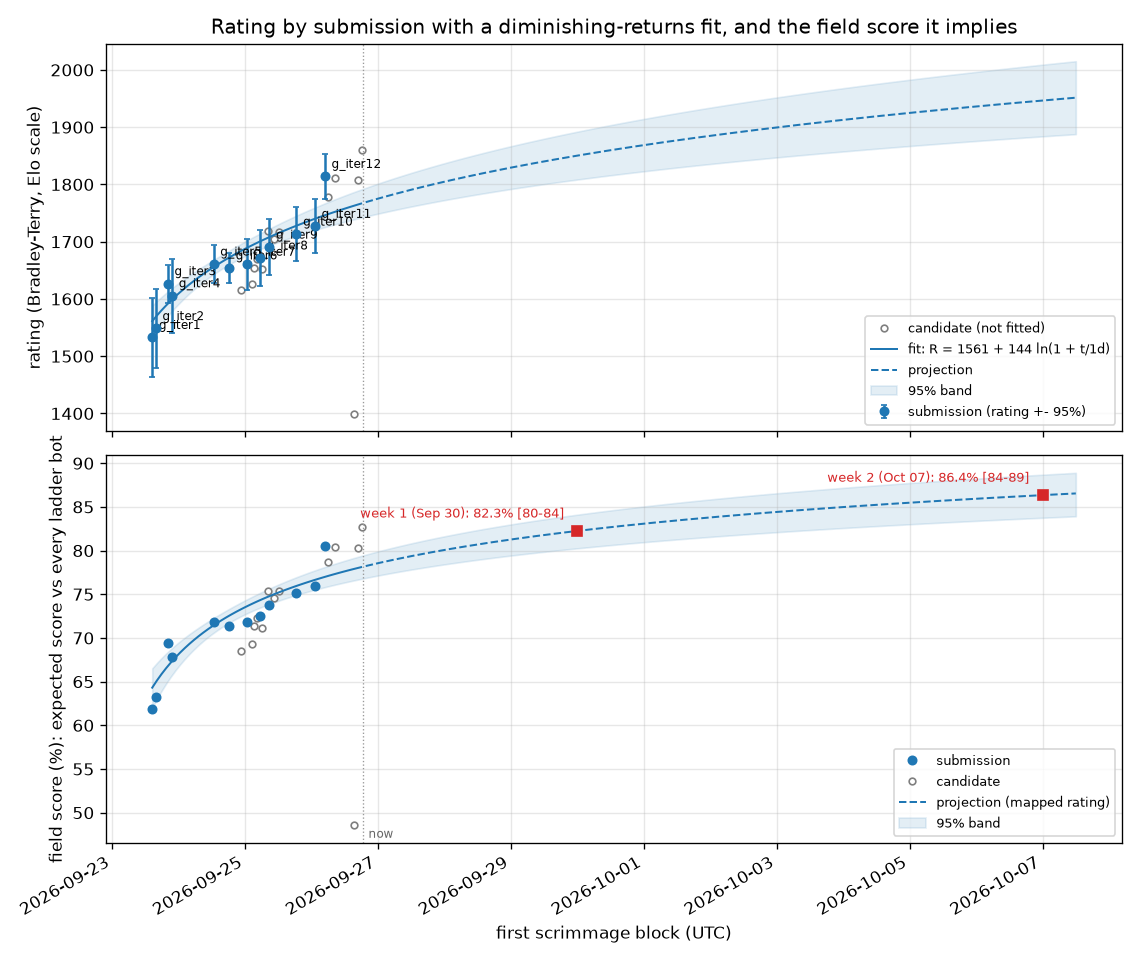
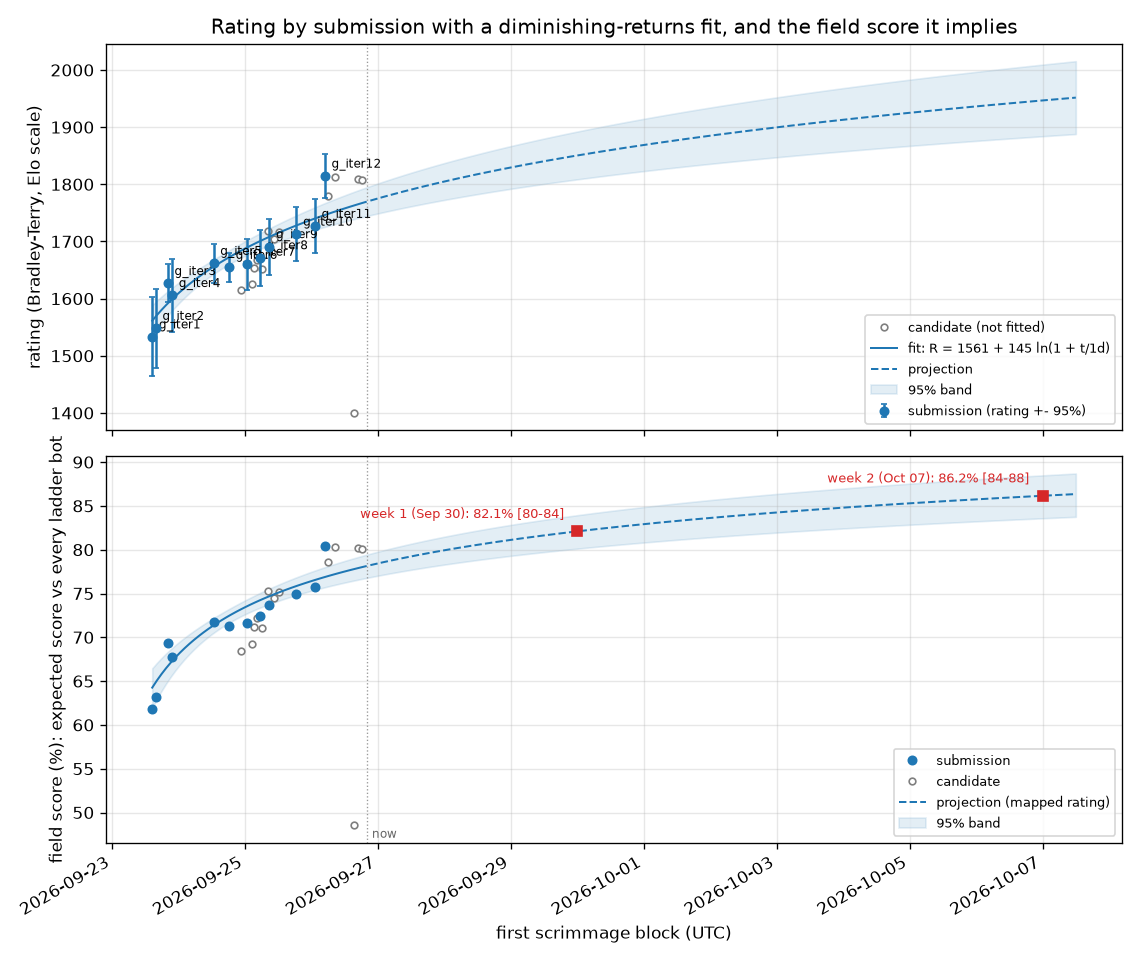
sub81 block 1: 9-39 vs a stronger band; cand81s8 1808 +- 60 on 144 (null); the shield absent in 14 of 15 raid losses
Claude-Session: https://claude.ai/code/session_015tNyF5ucwWW1mudpEQTT25

diff --git a/progress/ELO.md b/progress/ELO.md
@@ -1,76 +1,76 @@
 # Ladder
 
-6328 scrimmages (ours only), 5804 distinct (a repeated pairing with the same seed replays the same game and counts once), rated by a batch Bradley-Terry fit on the Elo scale (`tools/elolib.py`); each of our builds is its own player. 65 of 65 ladder bots met.
+6376 scrimmages (ours only), 5852 distinct (a repeated pairing with the same seed replays the same game and counts once), rated by a batch Bradley-Terry fit on the Elo scale (`tools/elolib.py`); each of our builds is its own player. 65 of 65 ladder bots met.
 
 Our builds (rating +- 95%; field score = expected score against every ladder bot, one game each):
 
 | build | rating | rank | games | record | field score |
 |---|---|---|---|---|---|
-| cand81s8 | 1861 +- 72 | 12 of 91 | 96 | 53-43 | 82.7% |
-| g_iter12 | 1814 +- 39 | 14 of 91 | 336 | 159-177 | 80.5% |
-| cand69 | 1811 +- 73 | 15 of 91 | 96 | 46-50 | 80.4% |
-| cand81 | 1809 +- 90 | 16 of 91 | 95 | 67-28 | 80.3% |
-| cand65 | 1778 +- 73 | 17 of 91 | 96 | 42-54 | 78.7% |
-| g_iter11 | 1727 +- 47 | 18 of 91 | 240 | 107-133 | 75.9% |
-| cand43b | 1719 +- 79 | 19 of 91 | 96 | 64-32 | 75.4% |
-| cand49b | 1717 +- 75 | 20 of 91 | 96 | 42-54 | 75.3% |
-| g_iter10 | 1713 +- 48 | 21 of 91 | 240 | 103-137 | 75.1% |
-| cand47d | 1704 +- 54 | 24 of 91 | 192 | 73-119 | 74.6% |
-| g_iter9 | 1691 +- 49 | 25 of 91 | 240 | 78-162 | 73.7% |
-| g_iter8 | 1672 +- 49 | 27 of 91 | 240 | 108-132 | 72.5% |
-| cand41b | 1669 +- 76 | 28 of 91 | 96 | 51-45 | 72.3% |
-| g_iter5 | 1661 +- 34 | 29 of 91 | 618 | 329-289 | 71.8% |
-| g_iter7 | 1661 +- 45 | 30 of 91 | 288 | 135-153 | 71.8% |
-| g_iter6 | 1654 +- 26 | 31 of 91 | 886 | 450-436 | 71.4% |
-| cand40c | 1654 +- 77 | 32 of 91 | 96 | 57-39 | 71.3% |
-| cand42c | 1652 +- 76 | 33 of 91 | 96 | 49-47 | 71.2% |
+| g_iter12 | 1814 +- 39 | 13 of 91 | 336 | 159-177 | 80.4% |
+| cand69 | 1812 +- 73 | 14 of 91 | 96 | 46-50 | 80.3% |
+| cand81 | 1810 +- 90 | 15 of 91 | 95 | 67-28 | 80.2% |
+| cand81s8 | 1808 +- 60 | 16 of 91 | 144 | 62-82 | 80.1% |
+| cand65 | 1779 +- 73 | 17 of 91 | 96 | 42-54 | 78.6% |
+| g_iter11 | 1727 +- 48 | 18 of 91 | 240 | 107-133 | 75.8% |
+| cand43b | 1718 +- 79 | 19 of 91 | 96 | 64-32 | 75.3% |
+| cand49b | 1717 +- 75 | 20 of 91 | 96 | 42-54 | 75.2% |
+| g_iter10 | 1713 +- 48 | 21 of 91 | 240 | 103-137 | 75.0% |
+| cand47d | 1704 +- 54 | 24 of 91 | 192 | 73-119 | 74.5% |
+| g_iter9 | 1691 +- 49 | 25 of 91 | 240 | 78-162 | 73.6% |
+| g_iter8 | 1672 +- 49 | 27 of 91 | 240 | 108-132 | 72.4% |
+| cand41b | 1668 +- 76 | 28 of 91 | 96 | 51-45 | 72.2% |
+| g_iter5 | 1662 +- 34 | 29 of 91 | 618 | 329-289 | 71.8% |
+| g_iter7 | 1660 +- 45 | 30 of 91 | 288 | 135-153 | 71.7% |
+| g_iter6 | 1655 +- 26 | 31 of 91 | 886 | 450-436 | 71.3% |
+| cand40c | 1654 +- 77 | 32 of 91 | 96 | 57-39 | 71.2% |
+| cand42c | 1651 +- 76 | 33 of 91 | 96 | 49-47 | 71.0% |
 | iter24 | 1634 +- 130 | 34 of 91 | 46 | 11-35 | 69.9% |
-| g_iter3 | 1627 +- 33 | 35 of 91 | 796 | 167-629 | 69.4% |
-| cand37 | 1626 +- 76 | 36 of 91 | 96 | 46-50 | 69.3% |
-| cand31 | 1615 +- 75 | 37 of 91 | 96 | 52-44 | 68.6% |
-| g_iter4 | 1606 +- 65 | 38 of 91 | 217 | 43-174 | 67.9% |
-| g_iter2 | 1548 +- 69 | 39 of 91 | 192 | 44-148 | 63.2% |
-| g_iter1 | 1533 +- 69 | 40 of 91 | 170 | 95-75 | 61.9% |
-| arch_enclosure | 1400 +- 165 | 44 of 91 | 48 | 4-44 | 48.6% |
+| g_iter3 | 1627 +- 33 | 35 of 91 | 796 | 167-629 | 69.3% |
+| cand37 | 1625 +- 76 | 36 of 91 | 96 | 46-50 | 69.2% |
+| cand31 | 1615 +- 75 | 37 of 91 | 96 | 52-44 | 68.5% |
+| g_iter4 | 1606 +- 65 | 38 of 91 | 217 | 43-174 | 67.8% |
+| g_iter2 | 1548 +- 69 | 39 of 91 | 192 | 44-148 | 63.1% |
+| g_iter1 | 1533 +- 69 | 40 of 91 | 170 | 95-75 | 61.8% |
+| arch_enclosure | 1400 +- 165 | 44 of 91 | 48 | 4-44 | 48.5% |
 
 | rank | player | rating | +- 95% | games | W-L |
 |---|---|---|---|---|---|
 | 1 | awesomelemonade.citricsky | 2230 | 200 | 103 | 101-2 |
 | 2 | uvafan.v14_final_bot | 2220 | 200 | 98 | 96-2 |
 | 3 | AngusRitossa.newbot | 2161 | 174 | 95 | 92-3 |
-| 4 | ronniesong0809.finalbota | 2045 | 98 | 127 | 114-13 |
-| 5 | IvanGeffner.finalbota | 1987 | 86 | 137 | 119-18 |
-| 6 | battlecode20-team4.finalbota | 1983 | 65 | 238 | 207-31 |
-| 7 | StoneT2000.FinalChowBotStable | 1972 | 211 | 21 | 19-2 |
-| 8 | rzhan11.quals_bot | 1944 | 95 | 98 | 83-15 |
-| 9 | winkelmantanner.tannerplayer | 1942 | 45 | 368 | 293-75 |
-| 10 | mvpatel2000.qual | 1915 | 44 | 355 | 273-82 |
-| 11 | EmaPajic.Qualifications | 1884 | 39 | 418 | 311-107 |
-| 12 | **us:cand81s8** | 1861 | 72 | 96 | 53-43 |
-| 13 | poortho.stable_seeding_bot | 1825 | 31 | 587 | 405-182 |
-| 14 | **us:g_iter12** | 1814 | 39 | 336 | 159-177 |
-| 15 | **us:cand69** | 1811 | 73 | 96 | 46-50 |
-| 16 | **us:cand81** | 1809 | 90 | 95 | 67-28 |
-| 17 | **us:cand65** | 1778 | 73 | 96 | 42-54 |
-| 18 | **us:g_iter11** | 1727 | 47 | 240 | 107-133 |
-| 19 | **us:cand43b** | 1719 | 79 | 96 | 64-32 |
+| 4 | StoneT2000.FinalChowBotStable | 2064 | 210 | 27 | 25-2 |
+| 5 | ronniesong0809.finalbota | 2045 | 98 | 127 | 114-13 |
+| 6 | IvanGeffner.finalbota | 2004 | 86 | 143 | 125-18 |
+| 7 | battlecode20-team4.finalbota | 1993 | 65 | 244 | 213-31 |
+| 8 | winkelmantanner.tannerplayer | 1942 | 44 | 374 | 298-76 |
+| 9 | rzhan11.quals_bot | 1920 | 88 | 104 | 86-18 |
+| 10 | mvpatel2000.qual | 1918 | 43 | 361 | 279-82 |
+| 11 | EmaPajic.Qualifications | 1880 | 38 | 424 | 314-110 |
+| 12 | poortho.stable_seeding_bot | 1825 | 31 | 593 | 409-184 |
+| 13 | **us:g_iter12** | 1814 | 39 | 336 | 159-177 |
+| 14 | **us:cand69** | 1812 | 73 | 96 | 46-50 |
+| 15 | **us:cand81** | 1810 | 90 | 95 | 67-28 |
+| 16 | **us:cand81s8** | 1808 | 60 | 144 | 62-82 |
+| 17 | **us:cand65** | 1779 | 73 | 96 | 42-54 |
+| 18 | **us:g_iter11** | 1727 | 48 | 240 | 107-133 |
+| 19 | **us:cand43b** | 1718 | 79 | 96 | 64-32 |
 | 20 | **us:cand49b** | 1717 | 75 | 96 | 42-54 |
 | 21 | **us:g_iter10** | 1713 | 48 | 240 | 103-137 |
-| 22 | laurenschneider.pdx_team_one | 1711 | 28 | 602 | 326-276 |
+| 22 | laurenschneider.pdx_team_one | 1710 | 28 | 602 | 326-276 |
 | 23 | cormackikkert.whyPermutator | 1708 | 28 | 595 | 320-275 |
 | 24 | **us:cand47d** | 1704 | 54 | 192 | 73-119 |
 | 25 | **us:g_iter9** | 1691 | 49 | 240 | 78-162 |
-| 26 | benzyx.seeding | 1683 | 28 | 598 | 301-297 |
+| 26 | benzyx.seeding | 1682 | 28 | 598 | 301-297 |
 | 27 | **us:g_iter8** | 1672 | 49 | 240 | 108-132 |
-| 28 | **us:cand41b** | 1669 | 76 | 96 | 51-45 |
-| 29 | **us:g_iter5** | 1661 | 34 | 618 | 329-289 |
-| 30 | **us:g_iter7** | 1661 | 45 | 288 | 135-153 |
-| 31 | **us:g_iter6** | 1654 | 26 | 886 | 450-436 |
+| 28 | **us:cand41b** | 1668 | 76 | 96 | 51-45 |
+| 29 | **us:g_iter5** | 1662 | 34 | 618 | 329-289 |
+| 30 | **us:g_iter7** | 1660 | 45 | 288 | 135-153 |
+| 31 | **us:g_iter6** | 1655 | 26 | 886 | 450-436 |
 | 32 | **us:cand40c** | 1654 | 77 | 96 | 57-39 |
-| 33 | **us:cand42c** | 1652 | 76 | 96 | 49-47 |
+| 33 | **us:cand42c** | 1651 | 76 | 96 | 49-47 |
 | 34 | **us:iter24** | 1634 | 130 | 46 | 11-35 |
 | 35 | **us:g_iter3** | 1627 | 33 | 796 | 167-629 |
-| 36 | **us:cand37** | 1626 | 76 | 96 | 46-50 |
+| 36 | **us:cand37** | 1625 | 76 | 96 | 46-50 |
 | 37 | **us:cand31** | 1615 | 75 | 96 | 52-44 |
 | 38 | **us:g_iter4** | 1606 | 65 | 217 | 43-174 |
 | 39 | **us:g_iter2** | 1548 | 69 | 192 | 44-148 |
@@ -80,18 +80,18 @@ Our builds (rating +- 95%; field score = expected score against every ladder bot
 | 43 | eggag32.BrutalPigeonBot | 1435 | 58 | 200 | 43-157 |
 | 44 | **us:arch_enclosure** | 1400 | 165 | 48 | 4-44 |
 | 45 | cs454-w20-team3.playbot | 1397 | 112 | 56 | 11-45 |
-| 46 | ARognes.FinalSubmission | 1381 | 144 | 37 | 6-31 |
+| 46 | ARognes.FinalSubmission | 1382 | 144 | 37 | 6-31 |
 | 47 | TeamSerpentine.noodleBot | 1372 | 144 | 38 | 6-32 |
 | 48 | yaonam.Robot_1 | 1359 | 155 | 33 | 5-28 |
 | 49 | WilliamYue37.Player1 | 1354 | 140 | 46 | 6-40 |
-| 50 | opheez.landscapers | 1350 | 270 | 9 | 1-8 |
-| 51 | ovimura.welovesoup | 1350 | 270 | 9 | 1-8 |
-| 52 | rsandzimier.SandSibs_seeding | 1350 | 270 | 9 | 1-8 |
-| 53 | thissop.alpha | 1350 | 270 | 9 | 1-8 |
+| 50 | opheez.landscapers | 1351 | 270 | 9 | 1-8 |
+| 51 | ovimura.welovesoup | 1351 | 270 | 9 | 1-8 |
+| 52 | rsandzimier.SandSibs_seeding | 1351 | 270 | 9 | 1-8 |
+| 53 | thissop.alpha | 1351 | 270 | 9 | 1-8 |
 | 54 | Tim-gubski.AngryWaffleMaker | 1349 | 155 | 32 | 5-27 |
 | 55 | VinayaBhat.team10pdx | 1347 | 223 | 15 | 2-13 |
 | 56 | cosimogonnelli.Team3player | 1331 | 275 | 7 | 1-6 |
-| 57 | jenlz.bustedJulianbot | 1325 | 263 | 14 | 1-13 |
+| 57 | jenlz.bustedJulianbot | 1326 | 263 | 14 | 1-13 |
 | 58 | LucianCov.ourRobot | 1321 | 386 | 3 | 0-3 |
 | 59 | MrHoseongLee.Neptune_v3 | 1321 | 386 | 3 | 0-3 |
 | 60 | Phrancium.Frankplayer1 | 1321 | 386 | 3 | 0-3 |

diff --git a/progress/ONSET.md b/progress/ONSET.md
@@ -1,6 +1,6 @@
 # Which metric starts predicting the result first
 
-47 games, 29 wins. Noise floor about 0.29; a correlation inside that band is not evidence.
+47 games, 9 wins. Noise floor about 0.29; a correlation inside that band is not evidence.
 
 Every metric is oriented so **higher is better for us**, so a positive correlation always means
 "this being better goes with winning". `~avg` is the running mean over all rounds so far rather than
@@ -12,46 +12,46 @@ See `progress/METRICS.md` for how each quantity is computed.
 
 | onset | anti | metric | peak corr | r100 | r200 | r300 | r400 | r600 | r900 |
 |---|---|---|---|---|---|---|---|---|---|
-| r100 | - | mines (us-them) | +0.44 | +0.31 | +0.28 | +0.25 | +0.23 | +0.44 | +0.41 |
-| r100 | - | robots (us-them) | +0.67 | +0.31 | +0.37 | +0.49 | +0.49 | +0.63 | +0.66 |
-| r100 | - | spawned (us-them) | +0.56 | +0.32 | +0.36 | +0.32 | +0.31 | +0.41 | +0.52 |
-| r150 | - | landscapers (us-them) | +0.40 | +0.19 | +0.39 | +0.37 | +0.25 | +0.35 | +0.37 |
-| r150 | - | landscapers (us-them) ~avg | +0.44 | +0.19 | +0.34 | +0.39 | +0.32 | +0.36 | +0.42 |
-| r150 | - | robots (us-them) ~avg | +0.69 | +0.26 | +0.38 | +0.44 | +0.45 | +0.59 | +0.67 |
-| r150 | - | spawned (us-them) ~avg | +0.52 | +0.27 | +0.37 | +0.37 | +0.32 | +0.37 | +0.46 |
-| r150 | - | units (us-them) | +0.64 | +0.24 | +0.32 | +0.45 | +0.44 | +0.58 | +0.63 |
-| r150 | - | units (us-them) ~avg | +0.67 | +0.22 | +0.33 | +0.40 | +0.40 | +0.53 | +0.65 |
-| r250 | - | cov (us-them) | +0.57 | +0.10 | +0.21 | +0.42 | +0.49 | +0.56 | +0.51 |
-| r300 | - | died (us-them) [inverted] | +0.49 | -0.12 | +0.03 | +0.41 | +0.40 | +0.49 | +0.35 |
-| r300 | - | died (us-them) [inverted] ~avg | +0.45 | -0.12 | +0.07 | +0.34 | +0.40 | +0.44 | +0.42 |
-| r300 | - | miners (us-them) | +0.58 | +0.11 | +0.09 | +0.34 | +0.39 | +0.50 | +0.57 |
-| r300 | - | worth (us-them) | +0.59 | +0.21 | +0.27 | +0.42 | +0.38 | +0.57 | +0.58 |
-| r300 | - | worth (us-them) ~avg | +0.58 | +0.16 | +0.27 | +0.35 | +0.35 | +0.49 | +0.57 |
-| r350 | - | cov (us-them) ~avg | +0.57 | +0.06 | +0.12 | +0.30 | +0.36 | +0.50 | +0.55 |
-| r400 | - | drones (us-them) | +0.51 | +0.06 | +0.05 | +0.16 | +0.42 | +0.40 | +0.45 |
-| r400 | - | pickups (us-them) | +0.69 | -0.21 | -0.10 | +0.25 | +0.45 | +0.69 | +0.53 |
-| r450 | - | drones (us-them) ~avg | +0.49 | +0.06 | +0.14 | +0.12 | +0.23 | +0.44 | +0.48 |
-| r450 | - | miners (us-them) ~avg | +0.53 | +0.13 | +0.16 | +0.21 | +0.29 | +0.40 | +0.51 |
-| r450 | - | pickups (us-them) ~avg | +0.64 | -0.21 | -0.16 | +0.09 | +0.29 | +0.60 | +0.62 |
-| r550 | - | mines (us-them) ~avg | +0.42 | +0.26 | +0.29 | +0.28 | +0.23 | +0.34 | +0.40 |
-| r600 | - | moves (us-them) | +0.57 | -0.12 | +0.12 | +0.18 | +0.20 | +0.33 | +0.51 |
-| r700 | - | digs (us-them) | +0.31 | -0.07 | +0.08 | +0.24 | +0.23 | +0.28 | +0.30 |
-| r700 | - | moves (us-them) ~avg | +0.51 | -0.13 | +0.08 | +0.15 | +0.16 | +0.25 | +0.41 |
-| r700 | - | vaporators (us-them) | +0.44 | -0.01 | -0.19 | -0.11 | -0.05 | +0.23 | +0.41 |
-| r800 | - | digs (us-them) ~avg | +0.31 | -0.07 | +0.07 | +0.18 | +0.22 | +0.26 | +0.30 |
-| r1050 | - | netguns (us-them) | +0.35 | . | -0.21 | -0.17 | -0.14 | +0.14 | +0.12 |
-| r1050 | - | vaporators (us-them) ~avg | +0.38 | -0.01 | -0.16 | -0.15 | -0.13 | +0.02 | +0.24 |
-| - | - | aba (us-them) [inverted] | +0.28 | +0.28 | -0.18 | +0.02 | +0.17 | +0.12 | +0.06 |
-| - | - | aba (us-them) [inverted] ~avg | +0.30 | +0.30 | -0.09 | -0.07 | +0.07 | +0.13 | +0.09 |
-| - | - | dirtDeps (us-them) | +0.30 | -0.04 | +0.08 | +0.23 | +0.21 | +0.27 | +0.28 |
-| - | - | dirtDeps (us-them) ~avg | +0.30 | -0.04 | +0.08 | +0.17 | +0.20 | +0.25 | +0.29 |
+| r50 | - | mines (us-them) | +0.52 | +0.37 | +0.34 | +0.40 | +0.49 | +0.46 | +0.48 |
+| r50 | - | mines (us-them) ~avg | +0.51 | +0.39 | +0.38 | +0.41 | +0.51 | +0.49 | +0.49 |
+| r100 | - | drones (us-them) ~avg | +0.42 | +0.34 | +0.23 | +0.24 | +0.29 | +0.37 | +0.39 |
+| r100 | - | miners (us-them) | +0.37 | +0.37 | +0.29 | +0.23 | +0.29 | +0.24 | +0.33 |
+| r100 | - | miners (us-them) ~avg | +0.39 | +0.31 | +0.31 | +0.31 | +0.38 | +0.32 | +0.33 |
+| r100 | - | robots (us-them) | +0.53 | +0.41 | +0.33 | +0.25 | +0.45 | +0.45 | +0.53 |
+| r100 | - | robots (us-them) ~avg | +0.52 | +0.38 | +0.36 | +0.33 | +0.44 | +0.47 | +0.51 |
+| r100 | - | spawned (us-them) | +0.52 | +0.41 | +0.32 | +0.23 | +0.44 | +0.44 | +0.52 |
+| r100 | - | spawned (us-them) ~avg | +0.51 | +0.38 | +0.36 | +0.33 | +0.43 | +0.46 | +0.50 |
+| r100 | - | units (us-them) | +0.53 | +0.42 | +0.24 | +0.13 | +0.41 | +0.42 | +0.53 |
+| r100 | - | units (us-them) ~avg | +0.53 | +0.37 | +0.30 | +0.22 | +0.36 | +0.44 | +0.50 |
+| r100 | - | worth (us-them) | +0.52 | +0.34 | +0.34 | +0.37 | +0.49 | +0.47 | +0.51 |
+| r100 | - | worth (us-them) ~avg | +0.51 | +0.32 | +0.34 | +0.39 | +0.48 | +0.48 | +0.51 |
+| r150 | - | moves (us-them) | +0.51 | +0.18 | +0.31 | +0.19 | +0.33 | +0.42 | +0.51 |
+| r150 | - | moves (us-them) ~avg | +0.51 | +0.06 | +0.34 | +0.26 | +0.35 | +0.41 | +0.49 |
+| r400 | - | drones (us-them) | +0.42 | +0.34 | +0.12 | +0.25 | +0.34 | +0.34 | +0.42 |
+| r450 | - | cov (us-them) | +0.50 | -0.10 | +0.05 | +0.21 | +0.30 | +0.42 | +0.45 |
+| r450 | - | landscapers (us-them) | +0.57 | -0.01 | +0.04 | -0.07 | +0.30 | +0.42 | +0.54 |
+| r450 | - | soup (us-them) ~avg | +0.35 | -0.18 | -0.22 | -0.14 | +0.26 | +0.19 | +0.03 |
+| r450 | - | vaporators (us-them) | +0.49 | +0.07 | +0.12 | +0.26 | +0.28 | +0.47 | +0.46 |
+| r500 | - | vaporators (us-them) ~avg | +0.47 | +0.07 | +0.14 | +0.23 | +0.23 | +0.38 | +0.47 |
+| r550 | - | cov (us-them) ~avg | +0.46 | -0.19 | +0.03 | +0.14 | +0.21 | +0.35 | +0.44 |
+| r600 | - | landscapers (us-them) ~avg | +0.59 | -0.01 | +0.03 | -0.04 | +0.14 | +0.31 | +0.50 |
+| r600 | - | pickups (us-them) | +0.37 | -0.11 | +0.08 | +0.03 | +0.14 | +0.31 | +0.28 |
+| r950 | - | digs (us-them) | +0.50 | +0.04 | -0.00 | +0.03 | +0.04 | +0.11 | +0.28 |
+| r950 | - | pickups (us-them) ~avg | +0.34 | -0.11 | +0.07 | +0.06 | +0.08 | +0.24 | +0.30 |
+| r1050 | - | dirtDeps (us-them) | +0.43 | -0.00 | +0.01 | +0.01 | +0.01 | +0.05 | +0.21 |
+| r1150 | - | digs (us-them) ~avg | +0.33 | +0.04 | -0.03 | +0.01 | +0.03 | +0.05 | +0.16 |
+| - | r900 | aba (us-them) [inverted] | -0.41 | -0.03 | -0.00 | -0.02 | +0.02 | -0.17 | -0.31 |
+| - | r1050 | aba (us-them) [inverted] ~avg | -0.34 | -0.06 | -0.03 | -0.05 | -0.01 | -0.10 | -0.25 |
+| - | - | died (us-them) [inverted] | +0.23 | +0.09 | +0.09 | +0.15 | +0.23 | +0.21 | +0.18 |
+| - | - | died (us-them) [inverted] ~avg | +0.25 | +0.09 | +0.10 | +0.12 | +0.18 | +0.21 | +0.25 |
+| - | - | dirtDeps (us-them) ~avg | +0.25 | -0.00 | -0.02 | -0.01 | +0.01 | +0.01 | +0.09 |
 | - | - | drowned (us-them) [inverted] | . | . | . | . | . | . | . |
 | - | - | drowned (us-them) [inverted] ~avg | . | . | . | . | . | . | . |
-| - | - | hqBuried (us-them) [inverted] | +0.29 | +0.16 | +0.12 | +0.26 | +0.14 | . | . |
-| - | - | hqBuried (us-them) [inverted] ~avg | +0.29 | +0.16 | +0.02 | +0.25 | +0.17 | +0.18 | +0.19 |
-| - | - | netguns (us-them) ~avg | -0.23 | . | -0.18 | -0.21 | -0.21 | -0.10 | +0.01 |
-| - | - | soup (us-them) | -0.34 | -0.34 | -0.22 | -0.08 | -0.07 | -0.07 | -0.04 |
-| - | r200 | soup (us-them) ~avg | -0.41 | -0.30 | -0.41 | -0.28 | -0.16 | -0.13 | -0.08 |
+| - | - | hqBuried (us-them) [inverted] | +0.33 | +0.27 | -0.11 | +0.33 | -0.06 | -0.07 | -0.07 |
+| - | - | hqBuried (us-them) [inverted] ~avg | +0.27 | +0.27 | -0.06 | +0.23 | -0.05 | -0.06 | -0.07 |
+| - | - | netguns (us-them) | +0.28 | . | . | . | +0.10 | +0.25 | +0.25 |
+| - | - | netguns (us-them) ~avg | +0.29 | . | . | . | +0.10 | +0.25 | +0.28 |
+| - | - | soup (us-them) | +0.42 | -0.19 | -0.03 | +0.21 | +0.42 | -0.05 | -0.16 |
 
 **Reading it.** Earliest onset is the first place to look: temporal precedence is the one causal hint a
 correlation can honestly give. Late-onset metrics are usually the scoreboard rather than the cause -- by then

diff --git a/BENCHMARK.md b/BENCHMARK.md
@@ -62,7 +62,7 @@ build with at least 200 recorded games: a candidate's short ladder arm never re-
 | `EmaPajic.Mark3` | EmaPajic_Battlecode-2020 (c060a22) | - | - | untested |  |
 | `EmaPajic.Mark4` | EmaPajic_Battlecode-2020 (c060a22) | - | - | untested |  |
 | `EmaPajic.Mark5` | EmaPajic_Battlecode-2020 (c060a22) | - | - | untested |  |
-| `EmaPajic.Qualifications` | EmaPajic_Battlecode-2020 (c060a22) | 50 | 42 | peer | 20 0 21 0 50 0 17 38 8 25 10 17 20 33 33 30 20 50 42 33 33 40 33 |
+| `EmaPajic.Qualifications` | EmaPajic_Battlecode-2020 (c060a22) | 50 | 42 | peer | 20 0 21 0 50 0 17 38 8 25 10 17 20 33 33 30 20 50 42 33 33 40 39 |
 | `EmaPajic.SeedingBot` | EmaPajic_Battlecode-2020 (c060a22) | - | - | untested |  |
 | `GabrielDWu.basicbot` | GabrielDWu_blezers-battlecode2020 (c0283f8) | - | - | untested |  |
 | `GabrielDWu.blezerbot` | GabrielDWu_blezers-battlecode2020 (c0283f8) | - | - | untested |  |
@@ -80,7 +80,7 @@ build with at least 200 recorded games: a candidate's short ladder arm never re-
 | `IvanGeffner.dronecrunchplus` | IvanGeffner_battlecode2020 (bc7dbca) | - | - | untested |  |
 | `IvanGeffner.ecoplayer` | IvanGeffner_battlecode2020 (bc7dbca) | - | - | untested |  |
 | `IvanGeffner.ecoplus` | IvanGeffner_battlecode2020 (bc7dbca) | - | - | untested |  |
-| `IvanGeffner.finalbota` | IvanGeffner_battlecode2020 (bc7dbca) | 17 | 12 | locked | 0 8 12 18 0 0 17 42 0 0 |
+| `IvanGeffner.finalbota` | IvanGeffner_battlecode2020 (bc7dbca) | 17 | 12 | locked | 0 8 12 18 0 0 17 42 0 0 0 |
 | `IvanGeffner.finalbotb` | IvanGeffner_battlecode2020 (bc7dbca) | - | - | untested |  |
 | `IvanGeffner.finalbotc` | IvanGeffner_battlecode2020 (bc7dbca) | - | - | untested |  |
 | `IvanGeffner.landscaperop` | IvanGeffner_battlecode2020 (bc7dbca) | - | - | untested |  |
@@ -120,7 +120,7 @@ build with at least 200 recorded games: a candidate's short ladder arm never re-
 | `StoneT2000.Chow7` | StoneT2000_Battlecode2020 (4d6003c) | - | - | untested |  |
 | `StoneT2000.Chow8` | StoneT2000_Battlecode2020 (4d6003c) | - | - | untested |  |
 | `StoneT2000.Chow9` | StoneT2000_Battlecode2020 (4d6003c) | - | - | untested |  |
-| `StoneT2000.FinalChowBotStable` | StoneT2000_Battlecode2020 (4d6003c) | 8 | 12 | locked | 100 0 8 |
+| `StoneT2000.FinalChowBotStable` | StoneT2000_Battlecode2020 (4d6003c) | 8 | 12 | locked | 100 0 8 0 |
 | `StoneT2000.attackbot` | StoneT2000_Battlecode2020 (4d6003c) | - | - | untested |  |
 | `StoneT2000.farmbot1` | StoneT2000_Battlecode2020 (4d6003c) | - | - | untested |  |
 | `StoneT2000.jan9` | StoneT2000_Battlecode2020 (4d6003c) | - | - | untested |  |
@@ -160,7 +160,7 @@ build with at least 200 recorded games: a candidate's short ladder arm never re-
 | `arya-k.donothing` | arya-k_bc20 (1b969b3) | - | - | untested |  |
 | `atliSig.buttletplayer` | atliSig_battlecode20-scaffold (b64b063) | 100 | 2 | peer(>90 once) | 100 100 |
 | `awesomelemonade.citricsky` | awesomelemonade_Battlecode2020 (7a50e66) | 0 | 11 | locked | 0 0 3 0 0 0 |
-| `battlecode20-team4.finalbota` | battlecode20-team4_battlecode20-scaffold (1cee065) | 10 | 30 | locked | 0 8 23 24 25 18 14 7 10 8 0 |
+| `battlecode20-team4.finalbota` | battlecode20-team4_battlecode20-scaffold (1cee065) | 10 | 30 | locked | 0 8 23 24 25 18 14 7 10 8 0 0 |
 | `battlecode20-team4.team4enemy` | battlecode20-team4_battlecode20-scaffold (1cee065) | - | - | untested |  |
 | `battlecode20-team4.team4player` | battlecode20-team4_battlecode20-scaffold (1cee065) | - | - | untested |  |
 | `battlecode.lectureplayer` | battlecode_lectureplayer (2836576) | - | - | untested |  |
@@ -246,7 +246,7 @@ build with at least 200 recorded games: a candidate's short ladder arm never re-
 | `mvpatel2000.oldhades` | mvpatel2000_Battlecode2020 (554943e) | - | - | untested |  |
 | `mvpatel2000.poseidon` | mvpatel2000_Battlecode2020 (554943e) | - | - | untested |  |
 | `mvpatel2000.quail` | mvpatel2000_Battlecode2020 (554943e) | - | - | untested |  |
-| `mvpatel2000.qual` | mvpatel2000_Battlecode2020 (554943e) | 26 | 42 | target | 0 8 24 13 67 12 0 12 20 46 8 23 30 26 42 33 0 17 50 |
+| `mvpatel2000.qual` | mvpatel2000_Battlecode2020 (554943e) | 26 | 42 | target | 0 8 24 13 67 12 0 12 20 46 8 23 30 26 42 33 0 17 33 |
 | `mvpatel2000.qualAttacc` | mvpatel2000_Battlecode2020 (554943e) | - | - | untested |  |
 | `mvpatel2000.qualNoAtacc` | mvpatel2000_Battlecode2020 (554943e) | - | - | untested |  |
 | `mvpatel2000.seeding` | mvpatel2000_Battlecode2020 (554943e) | - | - | untested |  |
@@ -280,7 +280,7 @@ build with at least 200 recorded games: a candidate's short ladder arm never re-
 | `poortho.rush` | poortho_battlecode-2020 (ebbd61e) | - | - | untested |  |
 | `poortho.rush_bot` | poortho_battlecode-2020 (ebbd61e) | - | - | untested |  |
 | `poortho.stable_miner1` | poortho_battlecode-2020 (ebbd61e) | - | - | untested |  |
-| `poortho.stable_seeding_bot` | poortho_battlecode-2020 (ebbd61e) | 31 | 42 | target | 0 17 27 31 0 30 31 50 39 33 25 33 33 17 42 37 33 17 27 30 31 58 25 0 33 42 |
+| `poortho.stable_seeding_bot` | poortho_battlecode-2020 (ebbd61e) | 31 | 42 | target | 0 17 27 31 0 30 31 50 39 33 25 33 33 17 42 37 33 17 27 30 31 58 25 0 33 39 |
 | `ps789.dennisTestPlayer` | ps789_AZBattlecode (f1d54ab) | - | - | untested |  |
 | `ps789.phillipTestPlayer` | ps789_AZBattlecode (f1d54ab) | - | - | untested |  |
 | `ronniesong0809.finalbota` | ronniesong0809_battlecode20-RADS (1cee065) | 7 | 30 | locked | 0 18 15 7 0 0 7 |

diff --git a/TRAINING_LOG.md b/TRAINING_LOG.md
@@ -3711,3 +3711,11 @@ tree in by rename.
 as it must for a defence against raids the mirror never makes. cand81s8 stays eligible; its ladder run is extended to
 240 band games (`sub81`, three more blocks) to tighten the field estimate (1861 +- 72 on 96), and the next design is
 how to make the shield form in the field games where it was absent (block 1: the center in 9 of 24 losses).
+
+**sub81 block 1 (`20260926-194153-scrim-cand81s8`): 9-39 against a stronger band** (centred on cand81s8's 1861:
+IvanGeffner 0-6, StoneT2000 0-6, battlecode20-team4 0-6, mvpatel2000 0-6, winkelmantanner 1-5, poortho 2-4, EmaPajic
+3-3, rzhan11 3-3). **cand81s8 now 1808 +- 60 on 144 games (g_iter12 1814 +- 39): the arm's +47 was noise.** 15 of the
+39 losses in the raid window, and **in 14 of those 15 the shield never existed** (no center, no drone) while the enemy
+fielded 69-423 drones. Three `finalbota` packages (IvanGeffner, battlecode20-team4, and ronniesong0809 before) all
+finish us at r1562-1575 -- the same lift-and-bury. The shield as built is absent where it is needed; a complete one
+would hold against any number of drones (drones cannot lift drones), so presence is the problem to solve.
